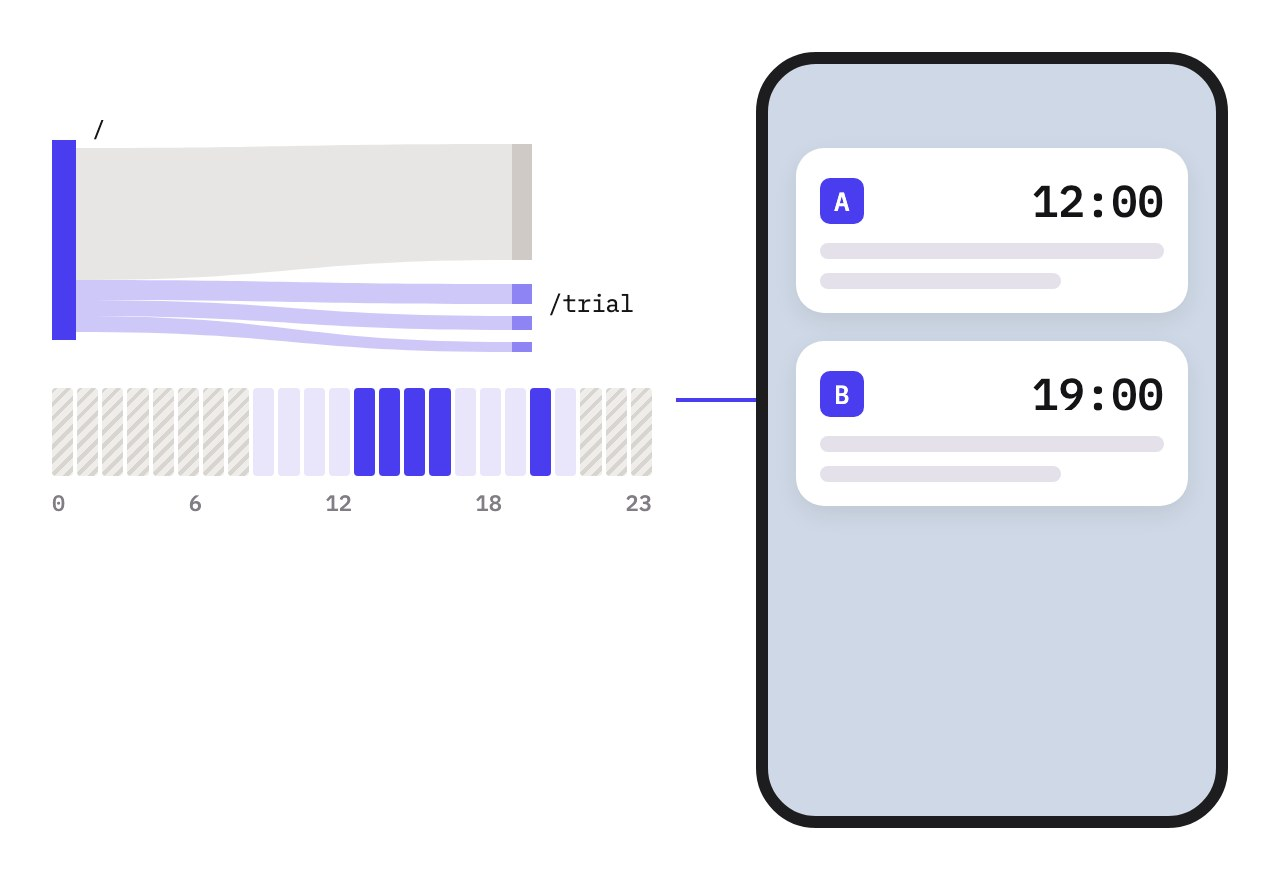
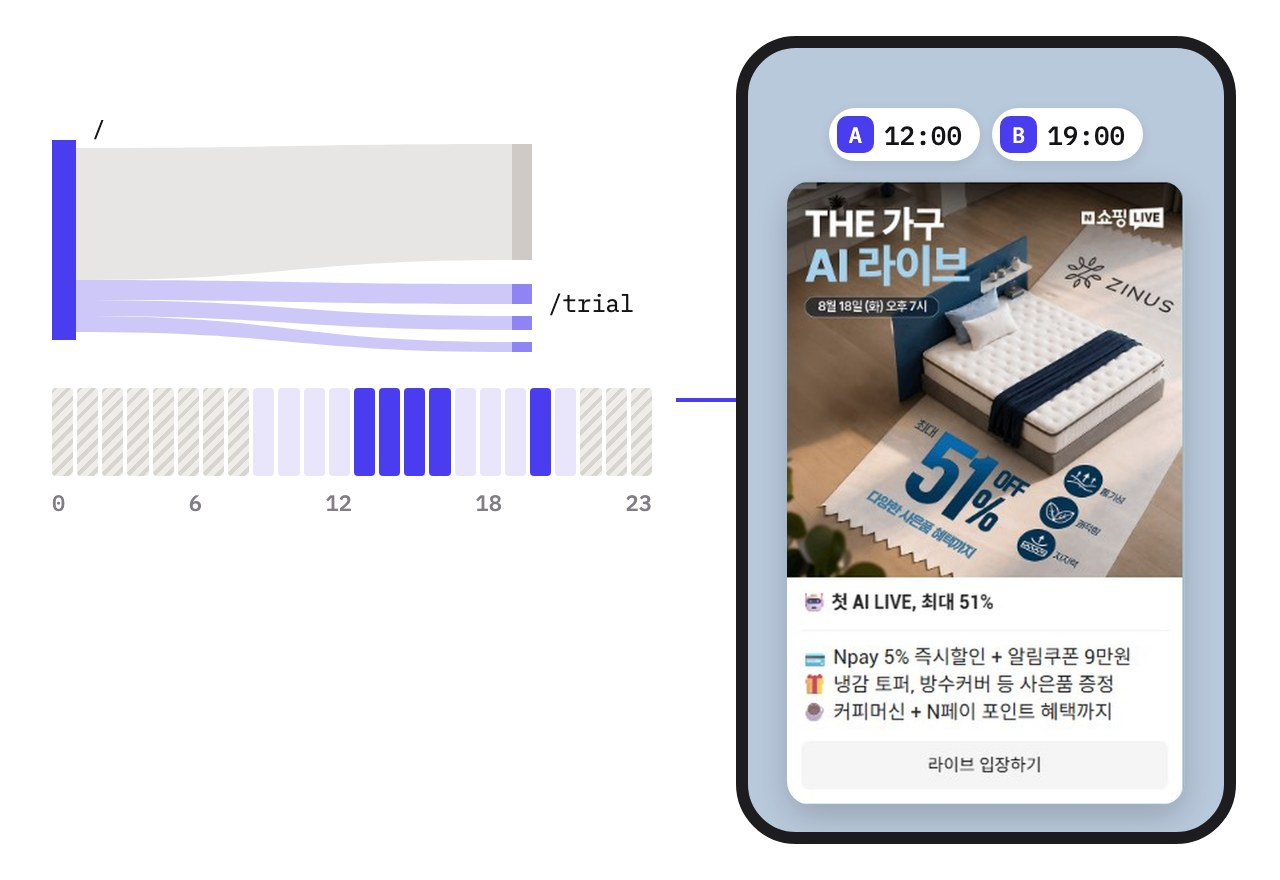
지누스 카드에 실제 소재, 카카오 카드에 실제 채널 메시지 반영

diff --git a/index.html b/index.html
@@ -179,11 +179,11 @@
           <div class="card-label"><p class="chip mint">광고 대상 나누기</p><h3>유사 타겟 설정, 구매자 제외</h3><p class="card-brand">무인양품 | 생활용품</p></div>
         </a>
         <a class="card" href="case-c.html">
-          <div class="card-img butter-bg"><div class="win"><div class="win-bar"><i></i><i></i><i></i><span>A/B Test Plan</span></div><div class="win-body render"><img src="assets/img/card_zinus.jpg" alt="A/B 테스트 설계 기준 도식" width="1280" height="880"></div></div></div>
+          <div class="card-img butter-bg"><div class="win"><div class="win-bar"><i></i><i></i><i></i><span>A/B Test Plan</span></div><div class="win-body render"><img src="assets/img/card_zinus.jpg?v=2" alt="A/B 테스트 설계 기준 도식" width="1280" height="880"></div></div></div>
           <div class="card-label"><p class="chip butter">A/B 테스트</p><h3>유효한 A/B 테스트 설계</h3><p class="card-brand">지누스 | 홈퍼니싱</p></div>
         </a>
         <a class="card" href="case-d.html">
-          <div class="card-img butter-bg"><div class="win"><div class="win-bar"><i></i><i></i><i></i><span>Send Time</span></div><div class="win-body render"><img src="assets/img/card_kakao.jpg" alt="발송 시간과 연결 페이지 분석 도식" width="1280" height="880"></div></div></div>
+          <div class="card-img butter-bg"><div class="win"><div class="win-bar"><i></i><i></i><i></i><span>Send Time</span></div><div class="win-body render"><img src="assets/img/card_kakao.jpg?v=2" alt="발송 시간과 연결 페이지 분석 도식" width="1280" height="880"></div></div></div>
           <div class="card-label"><p class="chip butter">메시지 테스트</p><h3>첫 줄 비교, 발송 시간 분석</h3><p class="card-brand">담당 브랜드 | 카카오톡 채널</p></div>
         </a>
         <a class="card" href="case-e.html">
